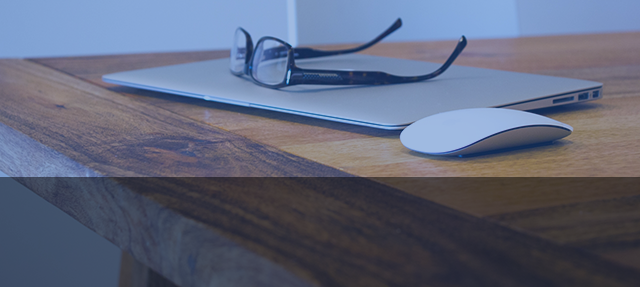
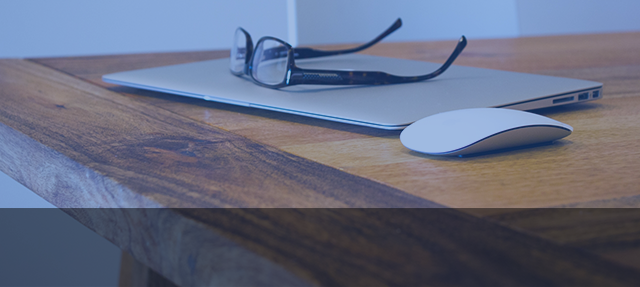
new image

Changed region(s): [[0.0, 0.6132, 1.0, 0.7247]]

diff --git a/index.html b/index.html
@@ -150,11 +150,13 @@ p {margin-bottom:1em;}
       
 <br>
 
-<table width="100%" height="287px" border="0" cellspacing="0" cellpadding="20" background="elderdocxphoto.png">
+<table width="100%" height="287px" border="0" cellspacing="0" cellpadding="20" background="elderdocxphotomid.png">
   <tr>
-    <td style="position:relative;top:90px;">
-      <center><span style="font-family: arial, 'helvetica neue', helvetica, sans-serif; font-size: 24pt; color:#fff; background-image: url(elderdocxphoto.png;">Is document drafting getting you down?</span><br><span style="font-family: arial, 'helvetica neue', helvetica, sans-serif; font-size: 24pt; color:#fff">
- We can help.&nbsp;</span></center>
+    <td style="position:relative;top:8px;">
+      <center><span style="font-family: georgia, serif; font-size: 20pt; color:#fff; line-height: 24pt;">Document drafting getting you down?</span><hr style="width:100px; opacity:.5; position: relative; top: 14px;"><span style="font-family: georgia, serif; font-size: 14pt; line-height: 18pt; color:#e2e2e2">
+        <br>
+ We can help.&nbsp;</span><br>
+</center>
     </td>
   </tr>
 </table>
